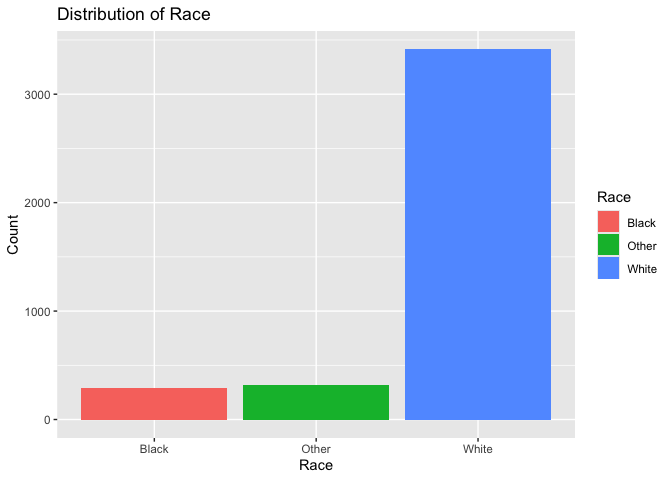
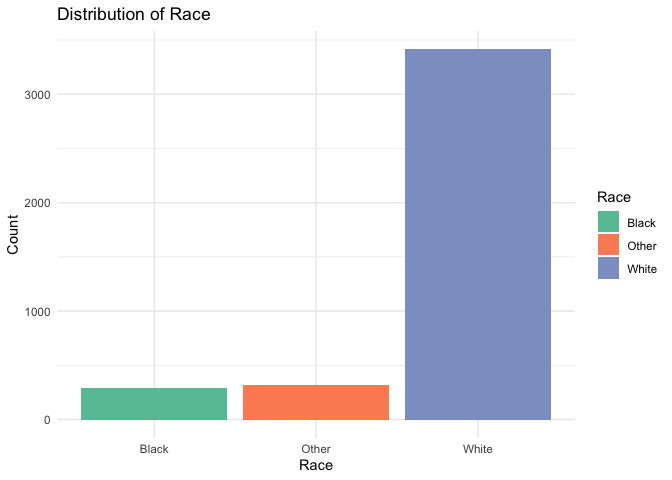
test commit Minghe

diff --git a/-Breast-cancer-survival-prediction.md b/-Breast-cancer-survival-prediction.md
@@ -273,12 +273,27 @@ corrplot(cor_matrix, method = "number", type = "full", tl.col = "black", tl.srt 
 
 ``` r
 # Bar Plot for categorical variables
-ggplot(data, aes(x = Race, fill = Race)) +
-  geom_bar() +
-  labs(title = "Distribution of Race", x = "Race", y = "Count")
+categorical_vars <- names(data)[sapply(data, is.factor) | sapply(data, is.character)]
+if (length(categorical_vars) > 0) {
+  for (var in categorical_vars) {
+    p <- ggplot(data, aes_string(x = var, fill = var)) +
+      geom_bar() +
+      labs(
+        title = paste("Distribution of", var),
+        x = var,
+        y = "Count"
+      ) +
+      theme_minimal() +
+      scale_fill_brewer(palette = "Set2")  
+    
+    print(p)  
+  }
+} else {
+  message("No categorical variables found in the dataset.")
+}
 ```
 
-![](./-Breast-cancer-survival-prediction_files/figure-gfm/unnamed-chunk-3-4.png)<!-- -->
+![](./-Breast-cancer-survival-prediction_files/figure-gfm/unnamed-chunk-3-4.png)<!-- -->![](./-Breast-cancer-survival-prediction_files/figure-gfm/unnamed-chunk-3-5.png)<!-- -->![](./-Breast-cancer-survival-prediction_files/figure-gfm/unnamed-chunk-3-6.png)<!-- -->![](./-Breast-cancer-survival-prediction_files/figure-gfm/unnamed-chunk-3-7.png)<!-- -->![](./-Breast-cancer-survival-prediction_files/figure-gfm/unnamed-chunk-3-8.png)<!-- -->![](./-Breast-cancer-survival-prediction_files/figure-gfm/unnamed-chunk-3-9.png)<!-- -->![](./-Breast-cancer-survival-prediction_files/figure-gfm/unnamed-chunk-3-10.png)<!-- -->![](./-Breast-cancer-survival-prediction_files/figure-gfm/unnamed-chunk-3-11.png)<!-- -->![](./-Breast-cancer-survival-prediction_files/figure-gfm/unnamed-chunk-3-12.png)<!-- -->![](./-Breast-cancer-survival-prediction_files/figure-gfm/unnamed-chunk-3-13.png)<!-- -->![](./-Breast-cancer-survival-prediction_files/figure-gfm/unnamed-chunk-3-14.png)<!-- -->
 
 # 3. Model Building: Survival Analysis
 
@@ -404,5 +419,142 @@ cat("Concordance Index:", c_index, "\n")
 ```
 
     ## Concordance Index: 0.7437448 0.01069854
+
+# Varibales selection
+
+``` r
+# backward selection
+logistic <- glm(Status ~ ., family = binomial, data = data)
+backward_model <- step(logistic, direction = "backward")
+```
+
+    ## Start:  AIC=2284.41
+    ## Status ~ Age + Race + Marital.Status + T.Stage + N.Stage + X6th.Stage + 
+    ##     differentiate + Grade + A.Stage + Tumor.Size + Estrogen.Status + 
+    ##     Progesterone.Status + Regional.Node.Examined + Reginol.Node.Positive + 
+    ##     Survival.Months
+    ## 
+    ## 
+    ## Step:  AIC=2284.41
+    ## Status ~ Age + Race + Marital.Status + T.Stage + N.Stage + X6th.Stage + 
+    ##     differentiate + A.Stage + Tumor.Size + Estrogen.Status + 
+    ##     Progesterone.Status + Regional.Node.Examined + Reginol.Node.Positive + 
+    ##     Survival.Months
+    ## 
+    ##                          Df Deviance    AIC
+    ## - Marital.Status          4   2235.7 2279.7
+    ## - X6th.Stage              3   2235.1 2281.1
+    ## - A.Stage                 1   2232.7 2282.7
+    ## - Tumor.Size              1   2232.9 2282.9
+    ## <none>                        2232.4 2284.4
+    ## - Estrogen.Status         1   2235.1 2285.1
+    ## - T.Stage                 3   2239.6 2285.6
+    ## - N.Stage                 1   2238.9 2288.9
+    ## - Race                    2   2242.1 2290.1
+    ## - Progesterone.Status     1   2243.7 2293.7
+    ## - Regional.Node.Examined  1   2248.2 2298.2
+    ## - Reginol.Node.Positive   1   2251.2 2301.2
+    ## - Age                     1   2251.6 2301.6
+    ## - differentiate           3   2262.8 2308.8
+    ## - Survival.Months         1   2952.0 3002.0
+    ## 
+    ## Step:  AIC=2279.72
+    ## Status ~ Age + Race + T.Stage + N.Stage + X6th.Stage + differentiate + 
+    ##     A.Stage + Tumor.Size + Estrogen.Status + Progesterone.Status + 
+    ##     Regional.Node.Examined + Reginol.Node.Positive + Survival.Months
+    ## 
+    ##                          Df Deviance    AIC
+    ## - X6th.Stage              3   2238.3 2276.3
+    ## - A.Stage                 1   2236.0 2278.0
+    ## - Tumor.Size              1   2236.1 2278.1
+    ## <none>                        2235.7 2279.7
+    ## - Estrogen.Status         1   2238.4 2280.4
+    ## - T.Stage                 3   2242.9 2280.9
+    ## - N.Stage                 1   2242.1 2284.1
+    ## - Race                    2   2246.6 2286.6
+    ## - Progesterone.Status     1   2247.6 2289.6
+    ## - Regional.Node.Examined  1   2251.5 2293.5
+    ## - Reginol.Node.Positive   1   2254.9 2296.9
+    ## - Age                     1   2257.3 2299.3
+    ## - differentiate           3   2265.8 2303.8
+    ## - Survival.Months         1   2960.1 3002.1
+    ## 
+    ## Step:  AIC=2276.32
+    ## Status ~ Age + Race + T.Stage + N.Stage + differentiate + A.Stage + 
+    ##     Tumor.Size + Estrogen.Status + Progesterone.Status + Regional.Node.Examined + 
+    ##     Reginol.Node.Positive + Survival.Months
+    ## 
+    ##                          Df Deviance    AIC
+    ## - A.Stage                 1   2238.6 2274.6
+    ## - Tumor.Size              1   2238.6 2274.6
+    ## <none>                        2238.3 2276.3
+    ## - Estrogen.Status         1   2241.1 2277.1
+    ## - N.Stage                 2   2245.6 2279.6
+    ## - Race                    2   2249.8 2283.8
+    ## - Progesterone.Status     1   2250.0 2286.0
+    ## - T.Stage                 3   2254.2 2286.2
+    ## - Regional.Node.Examined  1   2254.1 2290.1
+    ## - Reginol.Node.Positive   1   2257.8 2293.8
+    ## - Age                     1   2259.0 2295.0
+    ## - differentiate           3   2268.2 2300.2
+    ## - Survival.Months         1   2961.7 2997.7
+    ## 
+    ## Step:  AIC=2274.59
+    ## Status ~ Age + Race + T.Stage + N.Stage + differentiate + Tumor.Size + 
+    ##     Estrogen.Status + Progesterone.Status + Regional.Node.Examined + 
+    ##     Reginol.Node.Positive + Survival.Months
+    ## 
+    ##                          Df Deviance    AIC
+    ## - Tumor.Size              1   2238.9 2272.9
+    ## <none>                        2238.6 2274.6
+    ## - Estrogen.Status         1   2241.4 2275.4
+    ## - N.Stage                 2   2245.7 2277.7
+    ## - Race                    2   2250.2 2282.2
+    ## - Progesterone.Status     1   2250.3 2284.3
+    ## - T.Stage                 3   2254.3 2284.3
+    ## - Regional.Node.Examined  1   2254.2 2288.2
+    ## - Reginol.Node.Positive   1   2258.3 2292.3
+    ## - Age                     1   2259.6 2293.6
+    ## - differentiate           3   2268.8 2298.8
+    ## - Survival.Months         1   2961.8 2995.8
+    ## 
+    ## Step:  AIC=2272.88
+    ## Status ~ Age + Race + T.Stage + N.Stage + differentiate + Estrogen.Status + 
+    ##     Progesterone.Status + Regional.Node.Examined + Reginol.Node.Positive + 
+    ##     Survival.Months
+    ## 
+    ##                          Df Deviance    AIC
+    ## <none>                        2238.9 2272.9
+    ## - Estrogen.Status         1   2241.6 2273.6
+    ## - N.Stage                 2   2245.8 2275.8
+    ## - Race                    2   2250.4 2280.4
+    ## - Progesterone.Status     1   2250.7 2282.7
+    ## - Regional.Node.Examined  1   2254.4 2286.4
+    ## - T.Stage                 3   2261.7 2289.7
+    ## - Reginol.Node.Positive   1   2258.5 2290.5
+    ## - Age                     1   2260.1 2292.1
+    ## - differentiate           3   2269.2 2297.2
+    ## - Survival.Months         1   2961.8 2993.8
+
+``` r
+AIC(backward_model)
+```
+
+    ## [1] 2272.878
+
+``` r
+# forward selection
+null_logistic <- glm(Status ~ 1, family = binomial, data = data)
+forward_model <- step(null_logistic, direction = "forward")
+```
+
+    ## Start:  AIC=3446.68
+    ## Status ~ 1
+
+``` r
+AIC(forward_model)
+```
+
+    ## [1] 3446.683
 
 # 4. Fairness Analysis
